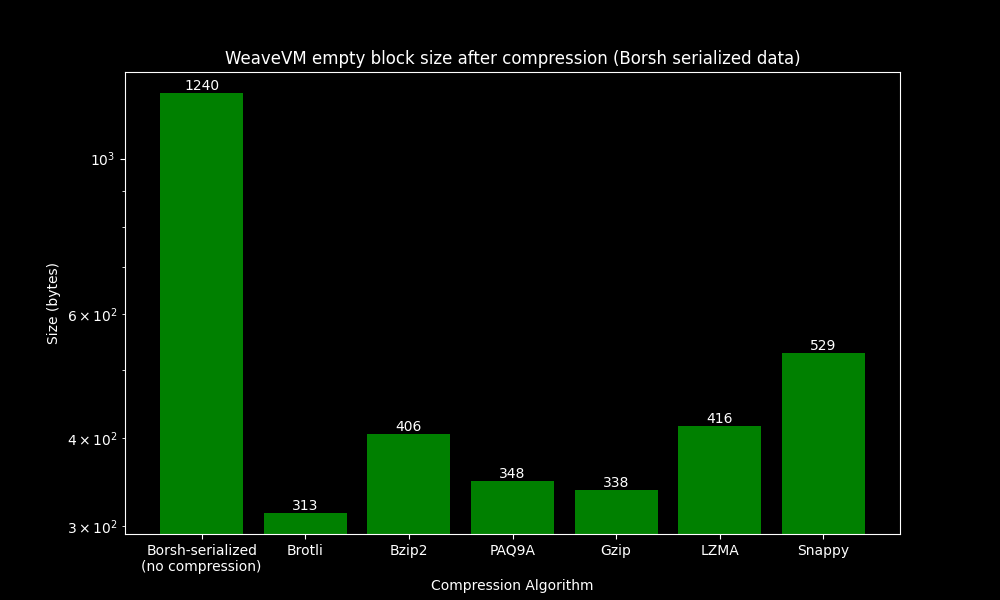
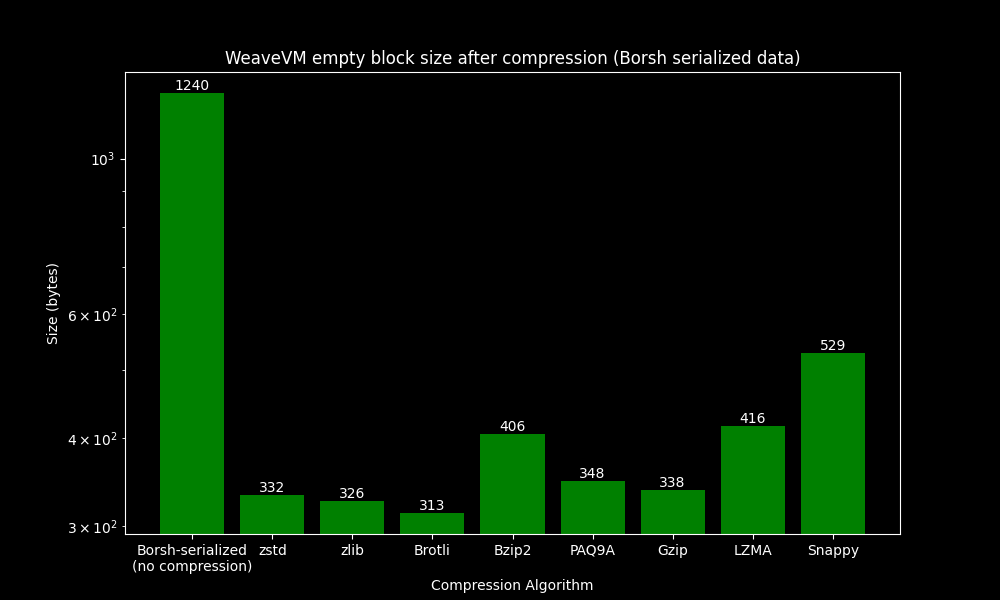
chore: add zstd & zlib to benchmarking

diff --git a/serialization_compression_benchmark/json_serialized/json_serialized.py b/serialization_compression_benchmark/json_serialized/json_serialized.py
@@ -4,12 +4,21 @@ import bz2
 import lzma
 import paq
 import brotli
+import pyzstd
+import zlib
 
 import matplotlib.pyplot as plt
 
[1 lines of base64/hex data omitted]
 print(f"Original size: {len(data)}")
 
+# zstd compression
+compressed_zstd = pyzstd.compress(data)
+print(f"zstd compressed size: {len(compressed_zstd)}")
+
+# zlib compression
+compressed_zlib = zlib.compress(data)
+print(f"zlib compressed size: {len(compressed_zlib)}")
 # Brotli compression
 compressed_brotli = brotli.compress(data)
 print(f"Brotli compressed size: {len(compressed_brotli)}")
@@ -40,9 +49,11 @@ plt.style.use('dark_background')
 plt.style.use('dark_background')
 
 # Data
-methods = ['JSON-serialized\n(no-compression)', 'Brotli', 'Bzip2', 'PAQ9A', 'Gzip', 'LZMA', 'Snappy']
+methods = ['JSON-serialized\n(no compression)', 'zstd', 'zlib', 'Brotli', 'Bzip2', 'PAQ9A', 'Gzip', 'LZMA', 'Snappy']
 sizes = [
     len(data),
+    len(compressed_zstd),
+    len(compressed_zlib),
     len(compressed_brotli),
     len(compressed_bz2),
     len(compressed_paq),

diff --git a/serialization_compression_benchmark/borsh_serialized/borsh_serialized.py b/serialization_compression_benchmark/borsh_serialized/borsh_serialized.py
@@ -7,6 +7,8 @@ from borsh_construct import U8, U64, String, CStruct, Option, Vec
 from construct import Container
 import matplotlib.pyplot as plt
 import brotli
+import pyzstd
+import zlib
 
 # Define Hex as a string for simplicity
 Hex = String
@@ -107,9 +109,18 @@ length_built_data = len(built_data)
 
 print(f"Original size: {len(built_data)}")
 
-# paq9a compression
+# zstd compression
+compressed_zstd = pyzstd.compress(built_data)
+print(f"zstd compressed size: {len(compressed_zstd)}")
+
+# zlib compression
+compressed_zlib = zlib.compress(built_data)
+print(f"zlib compressed size: {len(compressed_zlib)}")
+
+# Brotli compression
 compressed_brotli = brotli.compress(built_data)
 print(f"Brotli compressed size: {len(compressed_brotli)}")
+
 # paq9a compression
 compressed_paq = paq.compress(built_data)
 print(f"PAQ compressed size: {len(compressed_paq)}")
@@ -136,9 +147,11 @@ plt.style.use('dark_background')
 plt.style.use('dark_background')
 
 # Data
-methods = ['Borsh-serialized\n(no compression)', 'Brotli', 'Bzip2', 'PAQ9A', 'Gzip', 'LZMA', 'Snappy']
+methods = ['Borsh-serialized\n(no compression)', 'zstd', 'zlib', 'Brotli', 'Bzip2', 'PAQ9A', 'Gzip', 'LZMA', 'Snappy']
 sizes = [
     len(built_data),
+    len(compressed_zstd),
+    len(compressed_zlib),
     len(compressed_brotli),
     len(compressed_bz2),
     len(compressed_paq),
